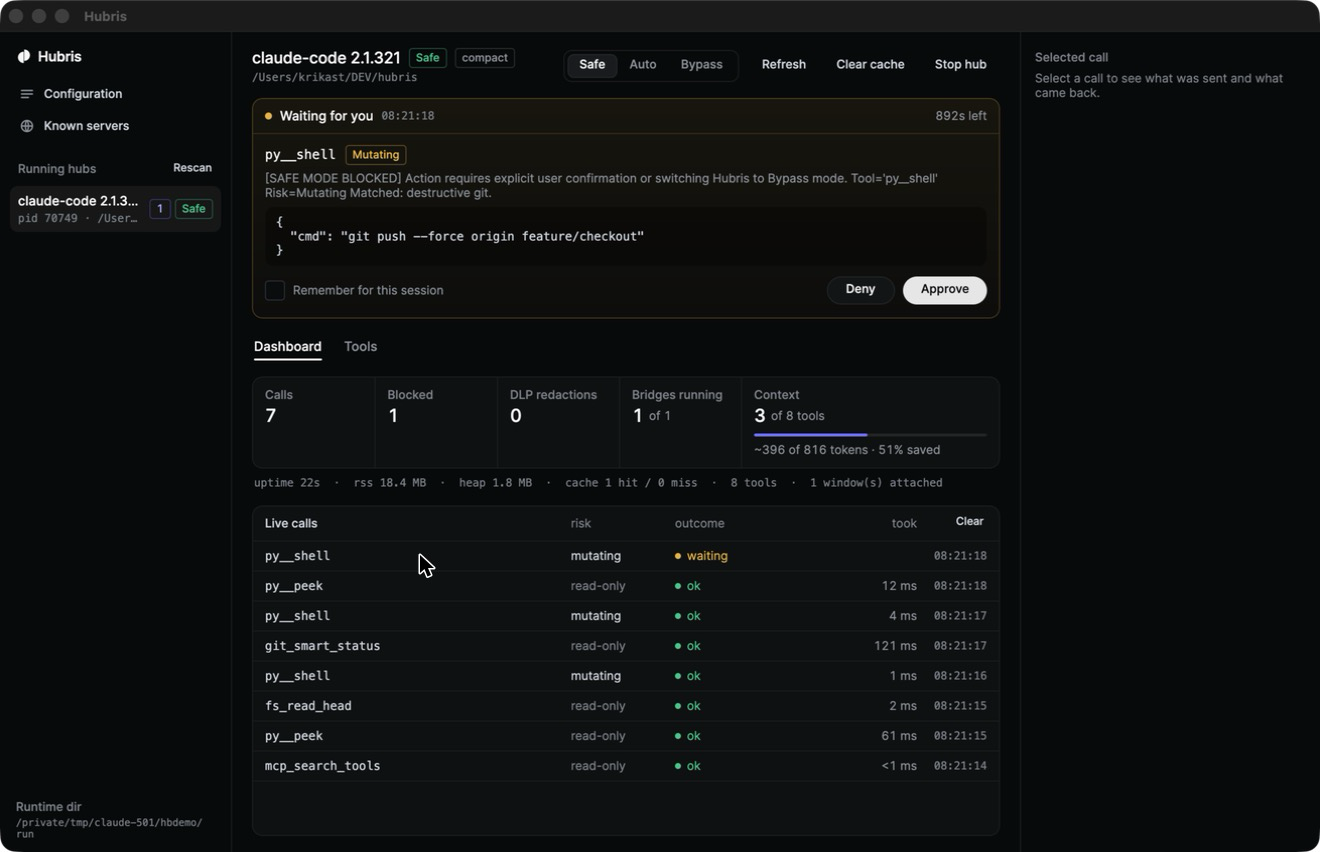
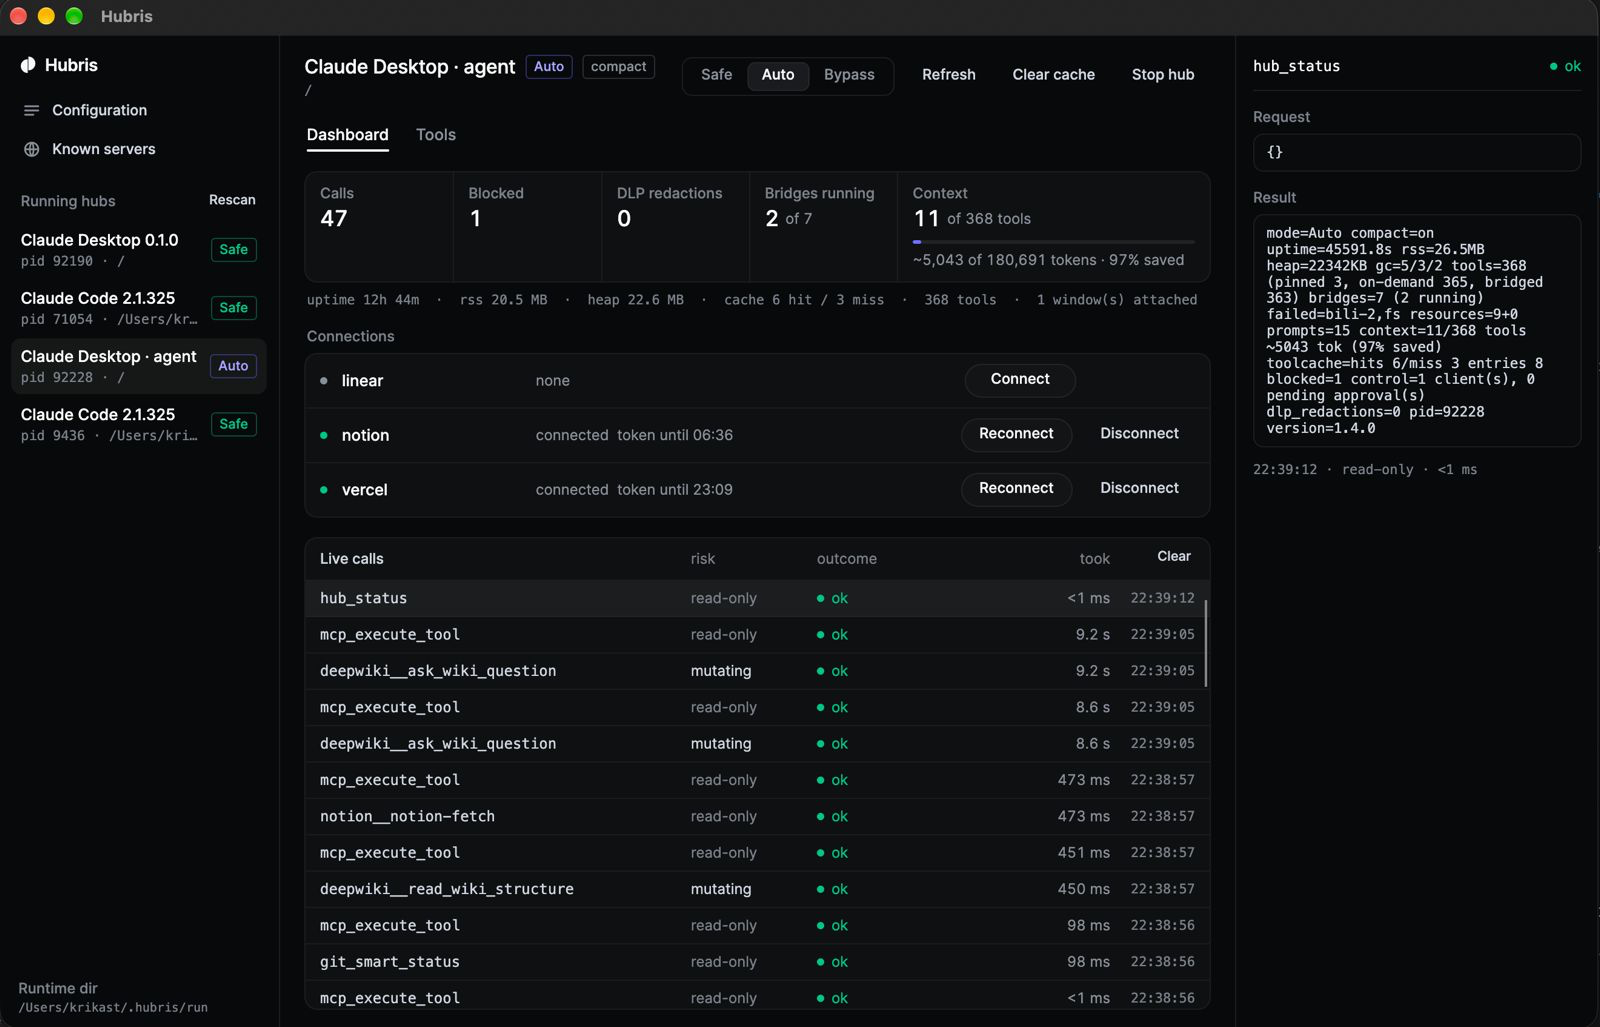
README: a current screenshot of the desktop app (context meter, a blocked call, sign-in state per server, live calls)

diff --git a/README.md b/README.md
@@ -11,7 +11,7 @@ before letting them through.
 .NET 10, Native AOT, no reflection, no runtime to install. A desktop app (Avalonia) does configuration,
 takeover of existing client configs, live call view and approvals.
 
-![Hubris desktop app: a call waiting for approval, the context cost and the live call log with its inspector](docs/hubris-dashboard.png)
+![Hubris desktop app: 11 of 368 tools in the model's context, one blocked call, the sign-in state of each server and the live call log with its inspector](docs/hubris-dashboard.png)
 
 **Get it:** download the app or the hub from the [releases page](https://github.com/Shadowinger/Hubris/releases)
 and follow [Install](#install), or build it from source. **No telemetry:** Hubris talks only to the MCP servers you
